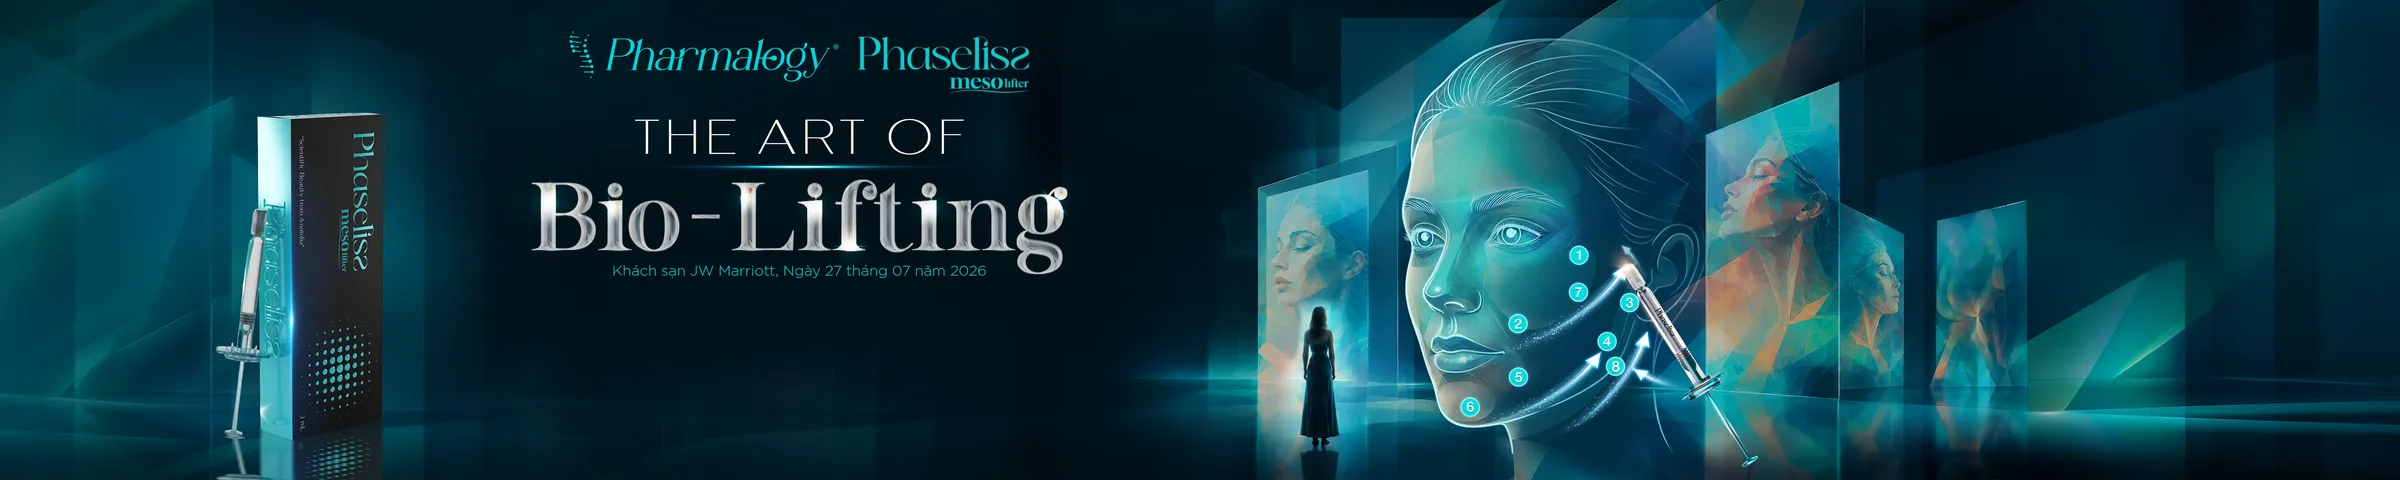
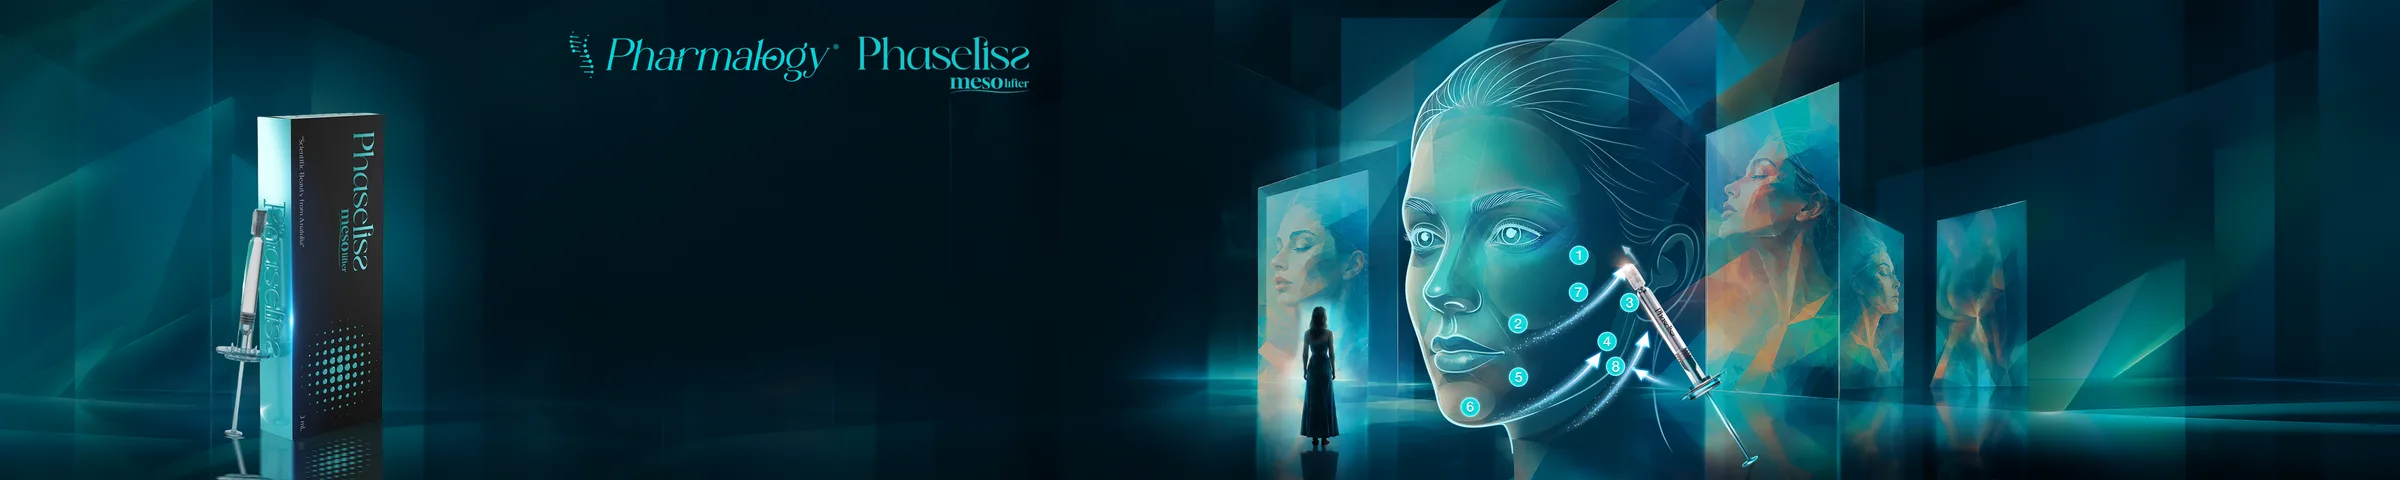
Fix presenter background/layout for the LED wall's 20:4 aspect ratio
- Swap in the text-removed KV background (full-bleed, no more baked-in
  headline competing with the live reel/winner text).
- Reposition the overlay to the artwork's actual clear negative-space
  band (measured from pixel brightness, centered ~35.5% not 50%) so it
  sits between the product bottle and face illustration instead of
  overlapping either.
- Make the reel's row height responsive to the letterboxed stage's
  actual height instead of a fixed px value, and show fewer rows on
  the presenter (5 vs 10) — a fixed size only ever fits one specific
  resolution, and 10 readable rows don't fit a 4m-tall/20m-wide wall.

Changed region(s): [[0.2188, 0.3438, 0.4688, 0.5938], [0.25, 0.25, 0.4062, 0.3125]]

diff --git a/src/components/Wheel/ReelWheel.tsx b/src/components/Wheel/ReelWheel.tsx
@@ -10,32 +10,60 @@ export interface ReelWheelProps {
   /** Precomputed spin payload; when set, the reel animates to it and lands on its winner. */
   sequence: ReelSequence | null
   onLanded?: () => void
-  /** Uniformly scales row height/width/font — used to enlarge the reel for the presenter window without CSS transform overflow issues. */
+  /** Uniformly scales row height/width/font from the base config size. Ignored when `itemHeightPxOverride` is set. */
   scale?: number
+  /**
+   * Exact row height (px) to render at, bypassing `scale` — for callers
+   * that compute their own responsive size (see useStageHeightPx) rather
+   * than a fixed multiple of the base config, since a fixed size can only
+   * ever be correct for one specific container size.
+   */
+  itemHeightPxOverride?: number
   /** Skip the spin animation and land instantly (a presenter catching up to an already-decided spin). */
   instant?: boolean
+  /**
+   * How many rows the *viewport* actually shows, independent of
+   * `WHEEL_CONFIG.visibleCount` (which sizes the padding baked into the
+   * precomputed sequence so the winner has enough rows on every side to
+   * center against). Cropping to fewer visible rows than that padding still
+   * centers correctly — it just shows less of it. Lets a very short/wide
+   * display (the presenter's LED-wall aspect ratio) shrink the viewport
+   * without touching the shared sequence data both windows render.
+   */
+  visibleRows?: number
 }
 
-export function ReelWheel({ idleItems, sequence, onLanded, scale = 1, instant = false }: ReelWheelProps) {
-  const itemHeightPx = WHEEL_CONFIG.itemHeightPx * scale
-  const trackRef = useReelAnimation({ sequence, onLanded, itemHeightPx, instant })
-  const { visibleCount, viewportMaxWidthPx } = WHEEL_CONFIG
-  const centerIndex = Math.floor(visibleCount / 2)
-  const viewportHeight = visibleCount * itemHeightPx
+export function ReelWheel({
+  idleItems,
+  sequence,
+  onLanded,
+  scale = 1,
+  itemHeightPxOverride,
+  instant = false,
+  visibleRows = WHEEL_CONFIG.visibleCount,
+}: ReelWheelProps) {
+  const itemHeightPx = itemHeightPxOverride ?? WHEEL_CONFIG.itemHeightPx * scale
+  // Drives font-size/max-width so they stay in proportion to whatever the
+  // row height actually resolved to, fixed-scale or computed-responsive alike.
+  const effectiveScale = itemHeightPx / WHEEL_CONFIG.itemHeightPx
+  const centerIndex = Math.floor(visibleRows / 2)
+  const trackRef = useReelAnimation({ sequence, onLanded, itemHeightPx, centerIndex, instant })
+  const { viewportMaxWidthPx } = WHEEL_CONFIG
+  const viewportHeight = visibleRows * itemHeightPx
 
-  const items = sequence ? sequence.items : idleItems.slice(0, visibleCount)
+  const items = sequence ? sequence.items : idleItems.slice(0, visibleRows)
 
   const highlightStyle = useMemo(
     () => ({ top: centerIndex * itemHeightPx, height: itemHeightPx }),
     [centerIndex, itemHeightPx],
   )
 
-  const viewportStyle = { height: viewportHeight, maxWidth: viewportMaxWidthPx * scale }
+  const viewportStyle = { height: viewportHeight, maxWidth: viewportMaxWidthPx * effectiveScale }
 
   if (items.length === 0) {
     return (
       <div className={styles.viewport} style={viewportStyle}>
-        <div className={styles.empty} style={{ height: viewportHeight, fontSize: `${scale}rem` }}>
+        <div className={styles.empty} style={{ height: viewportHeight, fontSize: `${effectiveScale}rem` }}>
           Chưa có người tham dự — hãy nhập danh sách từ file Excel.
         </div>
       </div>
@@ -49,7 +77,7 @@ export function ReelWheel({ idleItems, sequence, onLanded, scale = 1, instant = 
           <div
             key={item.key}
             className={styles.row}
-            style={{ height: itemHeightPx, fontSize: `${1.1 * scale}rem` }}
+            style={{ height: itemHeightPx, fontSize: `${1.1 * effectiveScale}rem` }}
           >
             {item.name}
           </div>

diff --git a/src/components/PresenterView/index.tsx b/src/components/PresenterView/index.tsx
@@ -1,31 +1,56 @@
+import type { CSSProperties } from 'react'
 import { usePresenterSync } from '../../hooks/usePresenterSync'
 import { ReelWheel } from '../Wheel/ReelWheel'
-import { WHEEL_CONFIG } from '../../config/wheelConfig'
+import { useStageHeightPx } from '../Wheel/useStageHeightPx'
+import { WHEEL_CONFIG, APP_CONFIG } from '../../config/wheelConfig'
 import styles from './PresenterView.module.css'
+
+const stageStyle = {
+  aspectRatio: `${APP_CONFIG.presenterAspectRatio} / 1`,
+  ['--presenter-ratio' as string]: APP_CONFIG.presenterAspectRatio,
+  ['--content-center-x' as string]: APP_CONFIG.presenterContentCenterX,
+  ['--content-max-width-pct' as string]: APP_CONFIG.presenterContentMaxWidthPct,
+} as CSSProperties
 
 /**
  * Audience-facing window: no operator controls, cursor hidden, state driven
  * entirely by BroadcastChannel messages from the control window (see
  * usePresenterSync) — it never computes its own spin outcome.
+ *
+ * Letterboxed to the LED wall's native aspect ratio (config-driven, see
+ * APP_CONFIG.presenterAspectRatio) so the background art fills the frame
+ * edge-to-edge instead of a thin cropped strip over a plain gradient.
  */
 export function PresenterView() {
   const { status, lastResult, instant } = usePresenterSync()
+  const stageHeightPx = useStageHeightPx()
+  const itemHeightPxOverride =
+    (stageHeightPx * WHEEL_CONFIG.presenterReelHeightFraction) / WHEEL_CONFIG.presenterVisibleRows
 
   return (
-    <div className={styles.stage}>
-      <img className={styles.banner} src="/kv-banner.webp" alt="Phaselisa — The Art of Bio-Lifting" />
-      <div className={styles.content}>
-        <ReelWheel
-          idleItems={[]}
-          sequence={lastResult?.sequence ?? null}
-          scale={WHEEL_CONFIG.presenterScale}
-          instant={instant}
+    <div className={styles.stageOuter}>
+      <div className={styles.stage} style={stageStyle}>
+        <img
+          className={styles.backgroundImg}
+          src="/kv-banner.webp"
+          alt="Phaselisa — The Art of Bio-Lifting"
         />
-        {status === 'idle' && <p className={styles.status}>Đang chờ vòng quay tiếp theo...</p>}
-        {status === 'spinning' && <p className={styles.status}>Đang quay...</p>}
-        {status === 'result' && lastResult && (
-          <p className={styles.winner}>🎉 {lastResult.winnerName} 🎉</p>
-        )}
+        <div className={styles.overlay}>
+          <div className={styles.glass}>
+            <ReelWheel
+              idleItems={[]}
+              sequence={lastResult?.sequence ?? null}
+              itemHeightPxOverride={itemHeightPxOverride}
+              visibleRows={WHEEL_CONFIG.presenterVisibleRows}
+              instant={instant}
+            />
+            {status === 'idle' && <p className={styles.status}>Đang chờ vòng quay tiếp theo...</p>}
+            {status === 'spinning' && <p className={styles.status}>Đang quay...</p>}
+            {status === 'result' && lastResult && (
+              <p className={styles.winner}>🎉 {lastResult.winnerName} 🎉</p>
+            )}
+          </div>
+        </div>
       </div>
     </div>
   )

diff --git a/src/components/PresenterView/PresenterView.module.css b/src/components/PresenterView/PresenterView.module.css
@@ -1,41 +1,71 @@
-.stage {
+.stageOuter {
   min-height: 100vh;
   width: 100%;
+  background: #000;
   display: flex;
-  flex-direction: column;
+  align-items: center;
+  justify-content: center;
   cursor: none;
-  background: radial-gradient(ellipse at top, #0d2530 0%, #04141a 65%);
 }
 
-.banner {
+/* Letterboxed to the LED wall's aspect ratio (--presenter-ratio, set inline
+   from config) regardless of the actual browser window shape — width is
+   capped by whichever of "full viewport width" or "the width a full-height
+   box of this ratio would need" is smaller, so it never overflows either
+   axis and never gets stretched off-ratio inside the page itself. */
+.stage {
+  position: relative;
+  width: min(100vw, calc(100vh * var(--presenter-ratio, 5)));
+  overflow: hidden;
+}
+
+.backgroundImg {
+  position: absolute;
+  inset: 0;
   width: 100%;
-  height: clamp(64px, 8vw, 120px);
+  height: 100%;
   object-fit: cover;
-  object-position: center 42%;
+  object-position: center;
   display: block;
-  border-bottom: 1px solid var(--panel-border);
-  flex-shrink: 0;
 }
 
-.content {
-  flex: 1;
+.overlay {
+  position: absolute;
+  inset: 0;
+}
+
+/* Positioned to sit in the KV artwork's actual clear negative-space band
+   (measured from the source image — see APP_CONFIG.presenterContentCenterX)
+   rather than the geometric center of the canvas, which overlaps the
+   product bottle on the left / face illustration on the right. */
+.glass {
+  position: absolute;
+  left: calc(var(--content-center-x, 0.5) * 100%);
+  top: 50%;
+  transform: translate(-50%, -50%);
+  max-width: calc(var(--content-max-width-pct, 0.9) * 100%);
+  background: rgba(4, 20, 26, 0.6);
+  backdrop-filter: blur(8px);
+  -webkit-backdrop-filter: blur(8px);
+  border: 1px solid rgba(31, 209, 221, 0.3);
+  border-radius: 1.2vw;
+  padding: 1.5vw 2.8vw;
   display: flex;
   flex-direction: column;
   align-items: center;
-  justify-content: center;
-  gap: 32px;
-  padding: 24px;
+  gap: 1.2vw;
+  box-shadow: 0 2vw 6vw rgba(0, 0, 0, 0.5);
 }
 
 .status {
   color: var(--text-muted);
-  font-size: 1.4rem;
+  font-size: clamp(0.85rem, 1.6vw, 1.4rem);
   letter-spacing: 0.02em;
 }
 
 .winner {
   font-family: var(--font-display);
-  font-size: 3rem;
+  font-size: clamp(1.3rem, 3.2vw, 3rem);
   font-weight: 700;
   background: var(--metallic-gradient);
   -webkit-background-clip: text;

diff --git a/src/config/wheelConfig.ts b/src/config/wheelConfig.ts
@@ -9,8 +9,22 @@ export const WHEEL_CONFIG = {
   itemHeightPx: 56,
   /** Max width (px) of the reel viewport at scale 1. */
   viewportMaxWidthPx: 520,
-  /** Row height/width multiplier applied on the presenter (audience) window for projector visibility. */
-  presenterScale: 1.4,
+  /**
+   * Rows actually rendered in the presenter's viewport — deliberately fewer
+   * than `visibleCount` because the LED wall is only 4m tall against 20m
+   * wide (5:1): 10 rows at a readable size simply doesn't fit that height
+   * budget. Still centers correctly (see ReelWheel's `visibleRows` prop).
+   */
+  presenterVisibleRows: 5,
+  /**
+   * Fraction of the letterboxed presenter stage's height the reel viewport
+   * is allowed to occupy (the rest is left for glass-panel padding + the
+   * status/winner line). Row height is derived from this at runtime — see
+   * useStageHeightPx — instead of a fixed px/scale, because a fixed size
+   * can only ever be correct for one specific output resolution, and this
+   * stage's actual resolution depends on the LED wall's AV setup.
+   */
+  presenterReelHeightFraction: 0.58,
   /** How many extra full loops of the pool the reel scrolls through before landing, for a convincing spin. */
   minLoops: 3,
   maxLoops: 5,
@@ -29,4 +43,19 @@ export const APP_CONFIG = {
   /** Query param + value that gates the presenter (audience) view. */
   presenterViewParam: 'view',
   presenterViewValue: 'presenter',
+  /**
+   * Width:height ratio of the physical LED wall (20m × 4m = 5:1). The
+   * presenter stage is letterboxed to this ratio via CSS regardless of the
+   * actual browser window size, so it renders correctly as long as
+   * whatever feeds the LED processor preserves aspect ratio end to end.
+   */
+  presenterAspectRatio: 5,
+  /**
+   * Where the reel/winner overlay sits on the presenter background, as a
+   * fraction of stage width/height. Measured directly from the KV artwork's
+   * clear negative-space band (product box ~0-20%, face illustration from
+   * ~51% onward) — the empty gap is centered around 35.5%, not 50%.
+   */
+  presenterContentCenterX: 0.355,
+  presenterContentMaxWidthPct: 0.3,
 } as const

diff --git a/src/components/Wheel/useReelAnimation.ts b/src/components/Wheel/useReelAnimation.ts
@@ -7,6 +7,8 @@ interface UseReelAnimationOptions {
   onLanded?: () => void
   /** Row height in px used for the translateY math — must match the caller's actual rendered row height. */
   itemHeightPx: number
+  /** Which row index lands in the viewport's highlighted center — must match whatever positions the highlight element, or the reel lands visually off from where the pointer marks. */
+  centerIndex: number
   /** Skip the spin animation and jump straight to the resting position (e.g. a presenter catching up to an already-decided spin). */
   instant?: boolean
 }
@@ -21,6 +23,7 @@ export function useReelAnimation({
   sequence,
   onLanded,
   itemHeightPx,
+  centerIndex,
   instant = false,
 }: UseReelAnimationOptions) {
   const trackRef = useRef<HTMLDivElement | null>(null)
@@ -40,7 +43,6 @@ export function useReelAnimation({
       return
     }
 
-    const centerIndex = Math.floor(WHEEL_CONFIG.visibleCount / 2)
     const targetY = -(sequence.winnerIndex - centerIndex) * itemHeightPx
 
     if (instant) {
@@ -77,7 +79,7 @@ export function useReelAnimation({
       cancelAnimationFrame(frame2)
       track.removeEventListener('transitionend', handleTransitionEnd)
     }
-  }, [sequence, itemHeightPx, instant])
+  }, [sequence, itemHeightPx, centerIndex, instant])
 
   return trackRef
 }

diff --git a/src/components/Wheel/useStageHeightPx.ts b/src/components/Wheel/useStageHeightPx.ts
@@ -1,0 +1,24 @@
+import { useEffect, useState } from 'react'
+import { APP_CONFIG } from '../../config/wheelConfig'
+
+function computeStageHeightPx(): number {
+  if (typeof window === 'undefined') return 0
+  const { innerWidth, innerHeight } = window
+  // Mirrors the CSS letterbox formula (`min(100vw, 100vh * ratio)` for
+  // width) so JS knows the same resolved stage height the browser laid out,
+  // without needing to measure the DOM.
+  return Math.min(innerWidth / APP_CONFIG.presenterAspectRatio, innerHeight)
+}
+
+/** Live height (px) of the letterboxed presenter stage — recomputed on resize. */
+export function useStageHeightPx(): number {
+  const [height, setHeight] = useState(computeStageHeightPx)
+
+  useEffect(() => {
+    const onResize = () => setHeight(computeStageHeightPx())
+    window.addEventListener('resize', onResize)
+    return () => window.removeEventListener('resize', onResize)
+  }, [])
+
+  return height
+}
